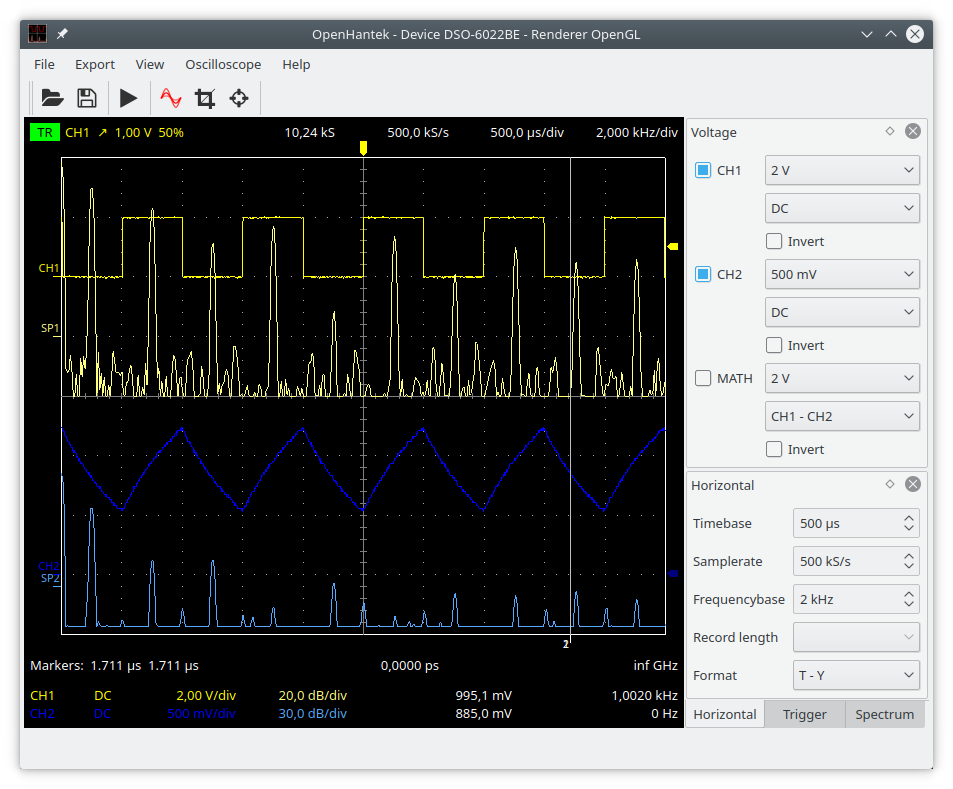
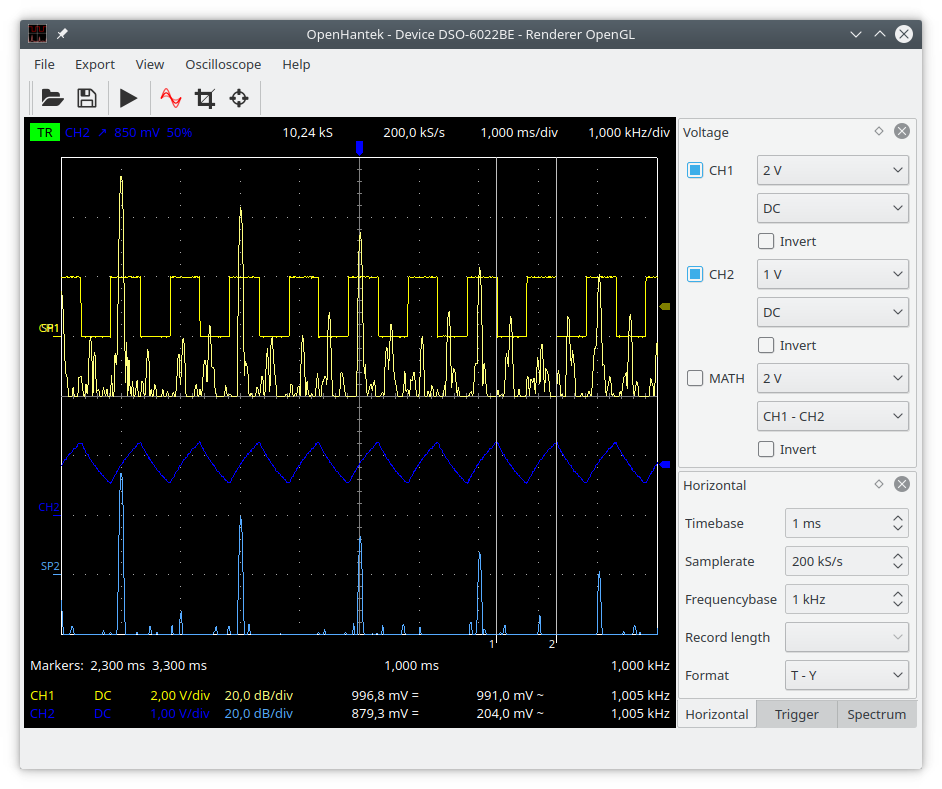
display DC and AC component of signal, use AC for DFT

diff --git a/openhantek/src/dsowidget.cpp b/openhantek/src/dsowidget.cpp
@@ -111,6 +111,7 @@ DsoWidget::DsoWidget(DsoSettingsScope *scope, DsoSettingsView *view, const Dso::
     measurementLayout->setColumnStretch(3, 2);
     measurementLayout->setColumnStretch(4, 3);
     measurementLayout->setColumnStretch(5, 3);
+    measurementLayout->setColumnStretch(6, 3);
     for (ChannelID channel = 0; channel < scope->voltage.size(); ++channel) {
         tablePalette.setColor(QPalette::WindowText, view->screen.voltage[channel]);
         measurementNameLabel.push_back(new QLabel(scope->voltage[channel].name));
@@ -127,6 +128,9 @@ DsoWidget::DsoWidget(DsoSettingsScope *scope, DsoSettingsView *view, const Dso::
         measurementAmplitudeLabel.push_back(new QLabel());
         measurementAmplitudeLabel[channel]->setAlignment(Qt::AlignRight);
         measurementAmplitudeLabel[channel]->setPalette(palette);
+        measurementRMSLabel.push_back(new QLabel());
+        measurementRMSLabel[channel]->setAlignment(Qt::AlignRight);
+        measurementRMSLabel[channel]->setPalette(palette);
         measurementFrequencyLabel.push_back(new QLabel());
         measurementFrequencyLabel[channel]->setAlignment(Qt::AlignRight);
         measurementFrequencyLabel[channel]->setPalette(palette);
@@ -136,7 +140,8 @@ DsoWidget::DsoWidget(DsoSettingsScope *scope, DsoSettingsView *view, const Dso::
         measurementLayout->addWidget(measurementGainLabel[channel], (int)channel, 2);
         measurementLayout->addWidget(measurementMagnitudeLabel[channel], (int)channel, 3);
         measurementLayout->addWidget(measurementAmplitudeLabel[channel], (int)channel, 4);
-        measurementLayout->addWidget(measurementFrequencyLabel[channel], (int)channel, 5);
+        measurementLayout->addWidget(measurementRMSLabel[channel], (int)channel, 5);
+        measurementLayout->addWidget(measurementFrequencyLabel[channel], (int)channel, 6);
         if ((unsigned)channel < spec->channels)
             updateVoltageCoupling((unsigned)channel);
         else
@@ -355,10 +360,12 @@ void DsoWidget::setMeasurementVisible(ChannelID channel) {
     measurementMiscLabel[channel]->setVisible(visible);
 
     measurementAmplitudeLabel[channel]->setVisible(visible);
+    measurementRMSLabel[channel]->setVisible(visible);
     measurementFrequencyLabel[channel]->setVisible(visible);
     if (!visible) {
         measurementGainLabel[channel]->setText(QString());
         measurementAmplitudeLabel[channel]->setText(QString());
+        measurementRMSLabel[channel]->setText(QString());
         measurementFrequencyLabel[channel]->setText(QString());
     }
 
@@ -631,12 +638,15 @@ void DsoWidget::showNew(std::shared_ptr<PPresult> data) {
 
     for (ChannelID channel = 0; channel < scope->voltage.size(); ++channel) {
         if (scope->voltage[channel].used && data.get()->data(channel)) {
-            // Amplitude string representation (4 significant digits)
+            // DC Amplitude string representation (4 significant digits)
             measurementAmplitudeLabel[channel]->setText(
-                valueToString(data.get()->data(channel)->computeAmplitude(), UNIT_VOLTS, 4));
+                valueToString(data.get()->data(channel)->amplitude, UNIT_VOLTS, 4) + " =");
+            // AC Amplitude string representation (4 significant digits)
+            measurementRMSLabel[channel]->setText(
+                valueToString(data.get()->data(channel)->rms, UNIT_VOLTS, 4) + " ~");
             // Frequency string representation (5 significant digits)
             measurementFrequencyLabel[channel]->setText(
-                valueToString(data.get()->data(channel)->frequency, UNIT_HERTZ, 5));
+                valueToString(data.get()->data(channel)->frequency, UNIT_HERTZ, 4));
         }
     }
 }

diff --git a/openhantek/src/post/spectrumgenerator.cpp b/openhantek/src/post/spectrumgenerator.cpp
@@ -149,9 +149,21 @@ void SpectrumGenerator::process(PPresult *result) {
 
         // Create sample buffer and apply window
         std::unique_ptr<double[]> windowedValues = std::unique_ptr<double[]>(new double[sampleCount]);
-
-        for (unsigned int position = 0; position < sampleCount; ++position)
-            windowedValues[position] = lastWindowBuffer[position] * channelData->voltage.sample[position];
+        // calculate the average value
+        channelData->amplitude = 0.0;
+        for (unsigned int position = 0; position < sampleCount; ++position) {
+            channelData->amplitude += channelData->voltage.sample[position];
+        }
+        channelData->amplitude /= sampleCount;
+        // strip DC bias, calculate rms, apply window
+        double rms = 0.0;
+        for (unsigned int position = 0; position < sampleCount; ++position) {
+            double ac = channelData->voltage.sample[position] - channelData->amplitude;
+            rms += ac * ac;
+            windowedValues[position] = lastWindowBuffer[position] * ac;
+        }
+        rms /= sampleCount;
+        channelData->rms = sqrt( rms );
 
         {
             // Do discrete real to half-complex transformation

diff --git a/openhantek/src/exporting/legacyexportdrawer.cpp b/openhantek/src/exporting/legacyexportdrawer.cpp
@@ -101,7 +101,7 @@ bool LegacyExportDrawer::exportSamples(const PPresult *result, QPaintDevice* pai
                 // Amplitude string representation (4 significant digits)
                 painter.setPen(colorValues->text);
                 painter.drawText(QRectF(lineHeight * 6 + stretchBase * 4, top, stretchBase * 3, lineHeight),
-                                 valueToString(result->data(channel)->computeAmplitude(), UNIT_VOLTS, 4),
+                                 valueToString(result->data(channel)->amplitude, UNIT_VOLTS, 4),
                                  QTextOption(Qt::AlignRight));
                 // Frequency string representation (5 significant digits)
                 painter.drawText(QRectF(lineHeight * 6 + stretchBase * 7, top, stretchBase * 3, lineHeight),

diff --git a/openhantek/src/dsowidget.h b/openhantek/src/dsowidget.h
@@ -81,7 +81,8 @@ class DsoWidget : public QWidget {
     std::vector<QLabel *> measurementGainLabel;      ///< The gain for the voltage (V/div)
     std::vector<QLabel *> measurementMagnitudeLabel; ///< The magnitude for the spectrum (dB/div)
     std::vector<QLabel *> measurementMiscLabel;      ///< Coupling or math mode
-    std::vector<QLabel *> measurementAmplitudeLabel; ///< Amplitude of the signal (V)
+    std::vector<QLabel *> measurementAmplitudeLabel; ///< DC Amplitude of the signal (V)
+    std::vector<QLabel *> measurementRMSLabel;       ///< AC Amplitude of the signal (V)
     std::vector<QLabel *> measurementFrequencyLabel; ///< Frequency of the signal (Hz)
 
     DataGrid *cursorDataGrid;

diff --git a/openhantek/src/post/ppresult.cpp b/openhantek/src/post/ppresult.cpp
@@ -18,6 +18,7 @@ unsigned int PPresult::sampleCount() const { return (unsigned)analyzedData[0].vo
 
 unsigned int PPresult::channelCount() const { return (unsigned)analyzedData.size(); }
 
+# if 0
 double DataChannel::computeAmplitude() const {
     if (voltage.sample.empty()) return 0.0;
     double minimalVoltage, maximalVoltage, averageVoltage = 0.0;
@@ -33,3 +34,4 @@ double DataChannel::computeAmplitude() const {
     return averageVoltage /= voltage.sample.size();
     return maximalVoltage - minimalVoltage;
 }
+#endif

diff --git a/openhantek/src/post/ppresult.h b/openhantek/src/post/ppresult.h
@@ -20,8 +20,10 @@ struct DataChannel {
     SampleValues spectrum;  ///< The frequency-domain power levels (dB)
 
     double frequency = 0.0; ///< The frequency of the signal
+    double amplitude = 0.0; ///< The DC bias of the signal
+    double rms = 0.0;       ///< The AC rms value of the signal
     // Calculate peak-to-peak voltage
-    double computeAmplitude() const;
+    // double computeAmplitude() const;
 };
 
 typedef std::vector<QVector3D> ChannelGraph;
